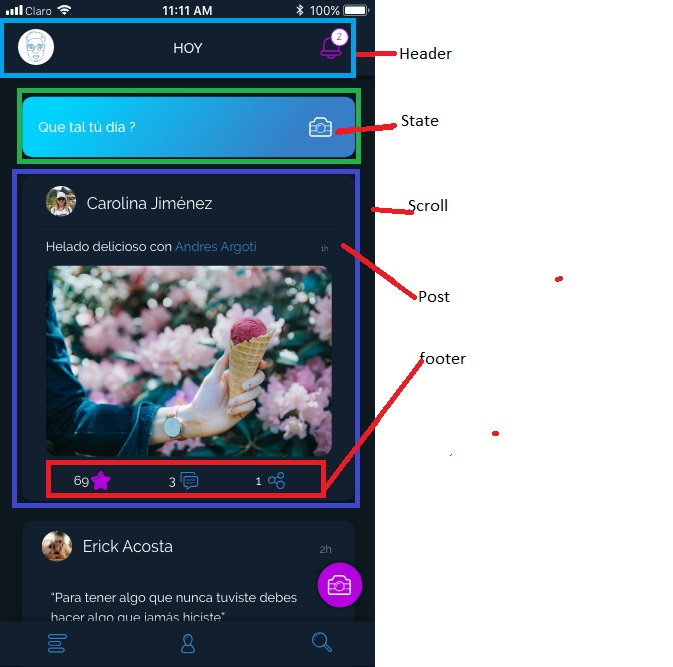
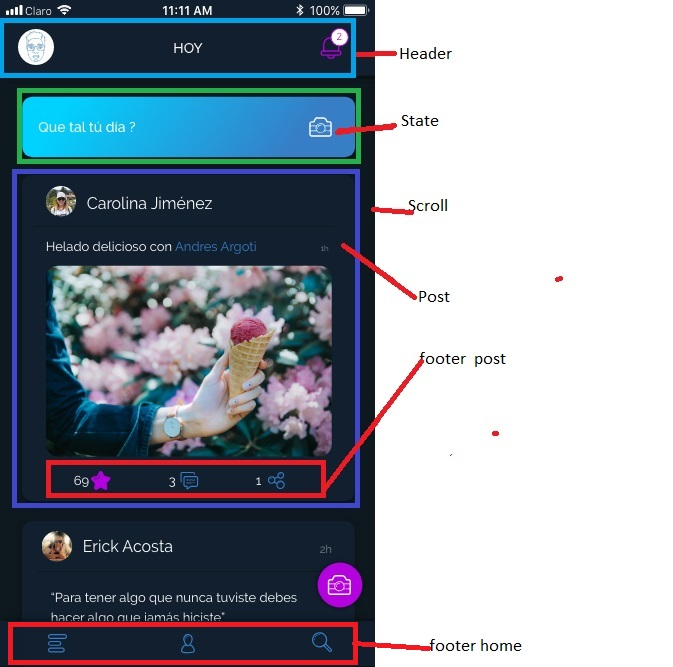
Componentes footer

Changed region(s): [[0.0, 0.9295, 0.7801, 1.0], [0.7177, 0.5097, 0.7489, 0.5697]]

diff --git a/src/app/app.module.ts b/src/app/app.module.ts
@@ -8,11 +8,12 @@ import { StatusBar } from '@ionic-native/status-bar';
 import { MyApp } from './app.component';
 import { HomePage } from '../pages/home/home';
 import { LoginPage } from '../pages/login/login';
-import { FooterComponent } from '../pages/home/components/footer/footer';
 import { StateComponent } from '../pages/home/components/state/state';
 import { PostComponent } from '../pages/home/components/post/post';
 import { ScrollComponent } from '../pages/home/components/scroll/scroll';
 import { SignInPageModule } from '../pages/sign-in/sign-in.module';
+import { FooterPostComponent } from '../pages/home/components/post/footer-post/footer-post';
+import { FooterHomeComponent } from '../pages/home/components/footer-home/footer-home';
 
 @NgModule({
   declarations: [
@@ -20,7 +21,8 @@ import { SignInPageModule } from '../pages/sign-in/sign-in.module';
     HomePage,
     LoginPage,
     HeaderComponent,
-    FooterComponent,
+    FooterPostComponent,
+    FooterHomeComponent,
     StateComponent,
     PostComponent,
     ScrollComponent,
@@ -33,7 +35,8 @@ import { SignInPageModule } from '../pages/sign-in/sign-in.module';
   bootstrap: [IonicApp],
   entryComponents: [
     HomePage,
-    FooterComponent,
+    FooterHomeComponent,
+    FooterPostComponent,
     MyApp,
     LoginPage,
     StateComponent,

diff --git a/src/pages/home/components/footer-home/footer-home.ts b/src/pages/home/components/footer-home/footer-home.ts
@@ -7,16 +7,16 @@ import { Component } from '@angular/core';
  * Components.
  */
 @Component({
-  selector: 'app-footer',
-  templateUrl: 'footer.html'
+  selector: 'app-footer-home',
+  templateUrl: 'footer-home.html'
 })
-export class FooterComponent {
+export class FooterHomeComponent {
 
   text: string;
 
   constructor() {
-    console.log('Hello FooterComponent Component');
-    this.text = 'Hello ForWorld';
+    console.log('Hello FooterHomeComponent Component');
+    this.text = 'Hello FooterHome';
   }
 
 }

diff --git a/src/pages/home/components/post/footer-post/footer-post.ts b/src/pages/home/components/post/footer-post/footer-post.ts
@@ -1,0 +1,22 @@
+import { Component } from '@angular/core';
+
+/**
+ * Generated class for the PostComponent component.
+ *
+ * See https://angular.io/api/core/Component for more info on Angular
+ * Components.
+ */
+@Component({
+  selector: 'app-footer-post',
+  templateUrl: 'footer-post.html'
+})
+export class FooterPostComponent {
+
+  text: string;
+
+  constructor() {
+    console.log('Hello FooterPostComponent Component');
+    this.text = 'Hello FooterrPost';
+  }
+
+}

diff --git a/src/pages/home/components/post/post.html b/src/pages/home/components/post/post.html
@@ -1,4 +1,4 @@
 <div>
     {{text}}
 </div>
-<app-footer></app-footer>
+<app-footer-post></app-footer-post>

diff --git a/src/pages/home/components/footer-home/footer-home.html b/src/pages/home/components/footer-home/footer-home.html
@@ -1,0 +1,3 @@
+<div>
+        {{text}}
+</div>
